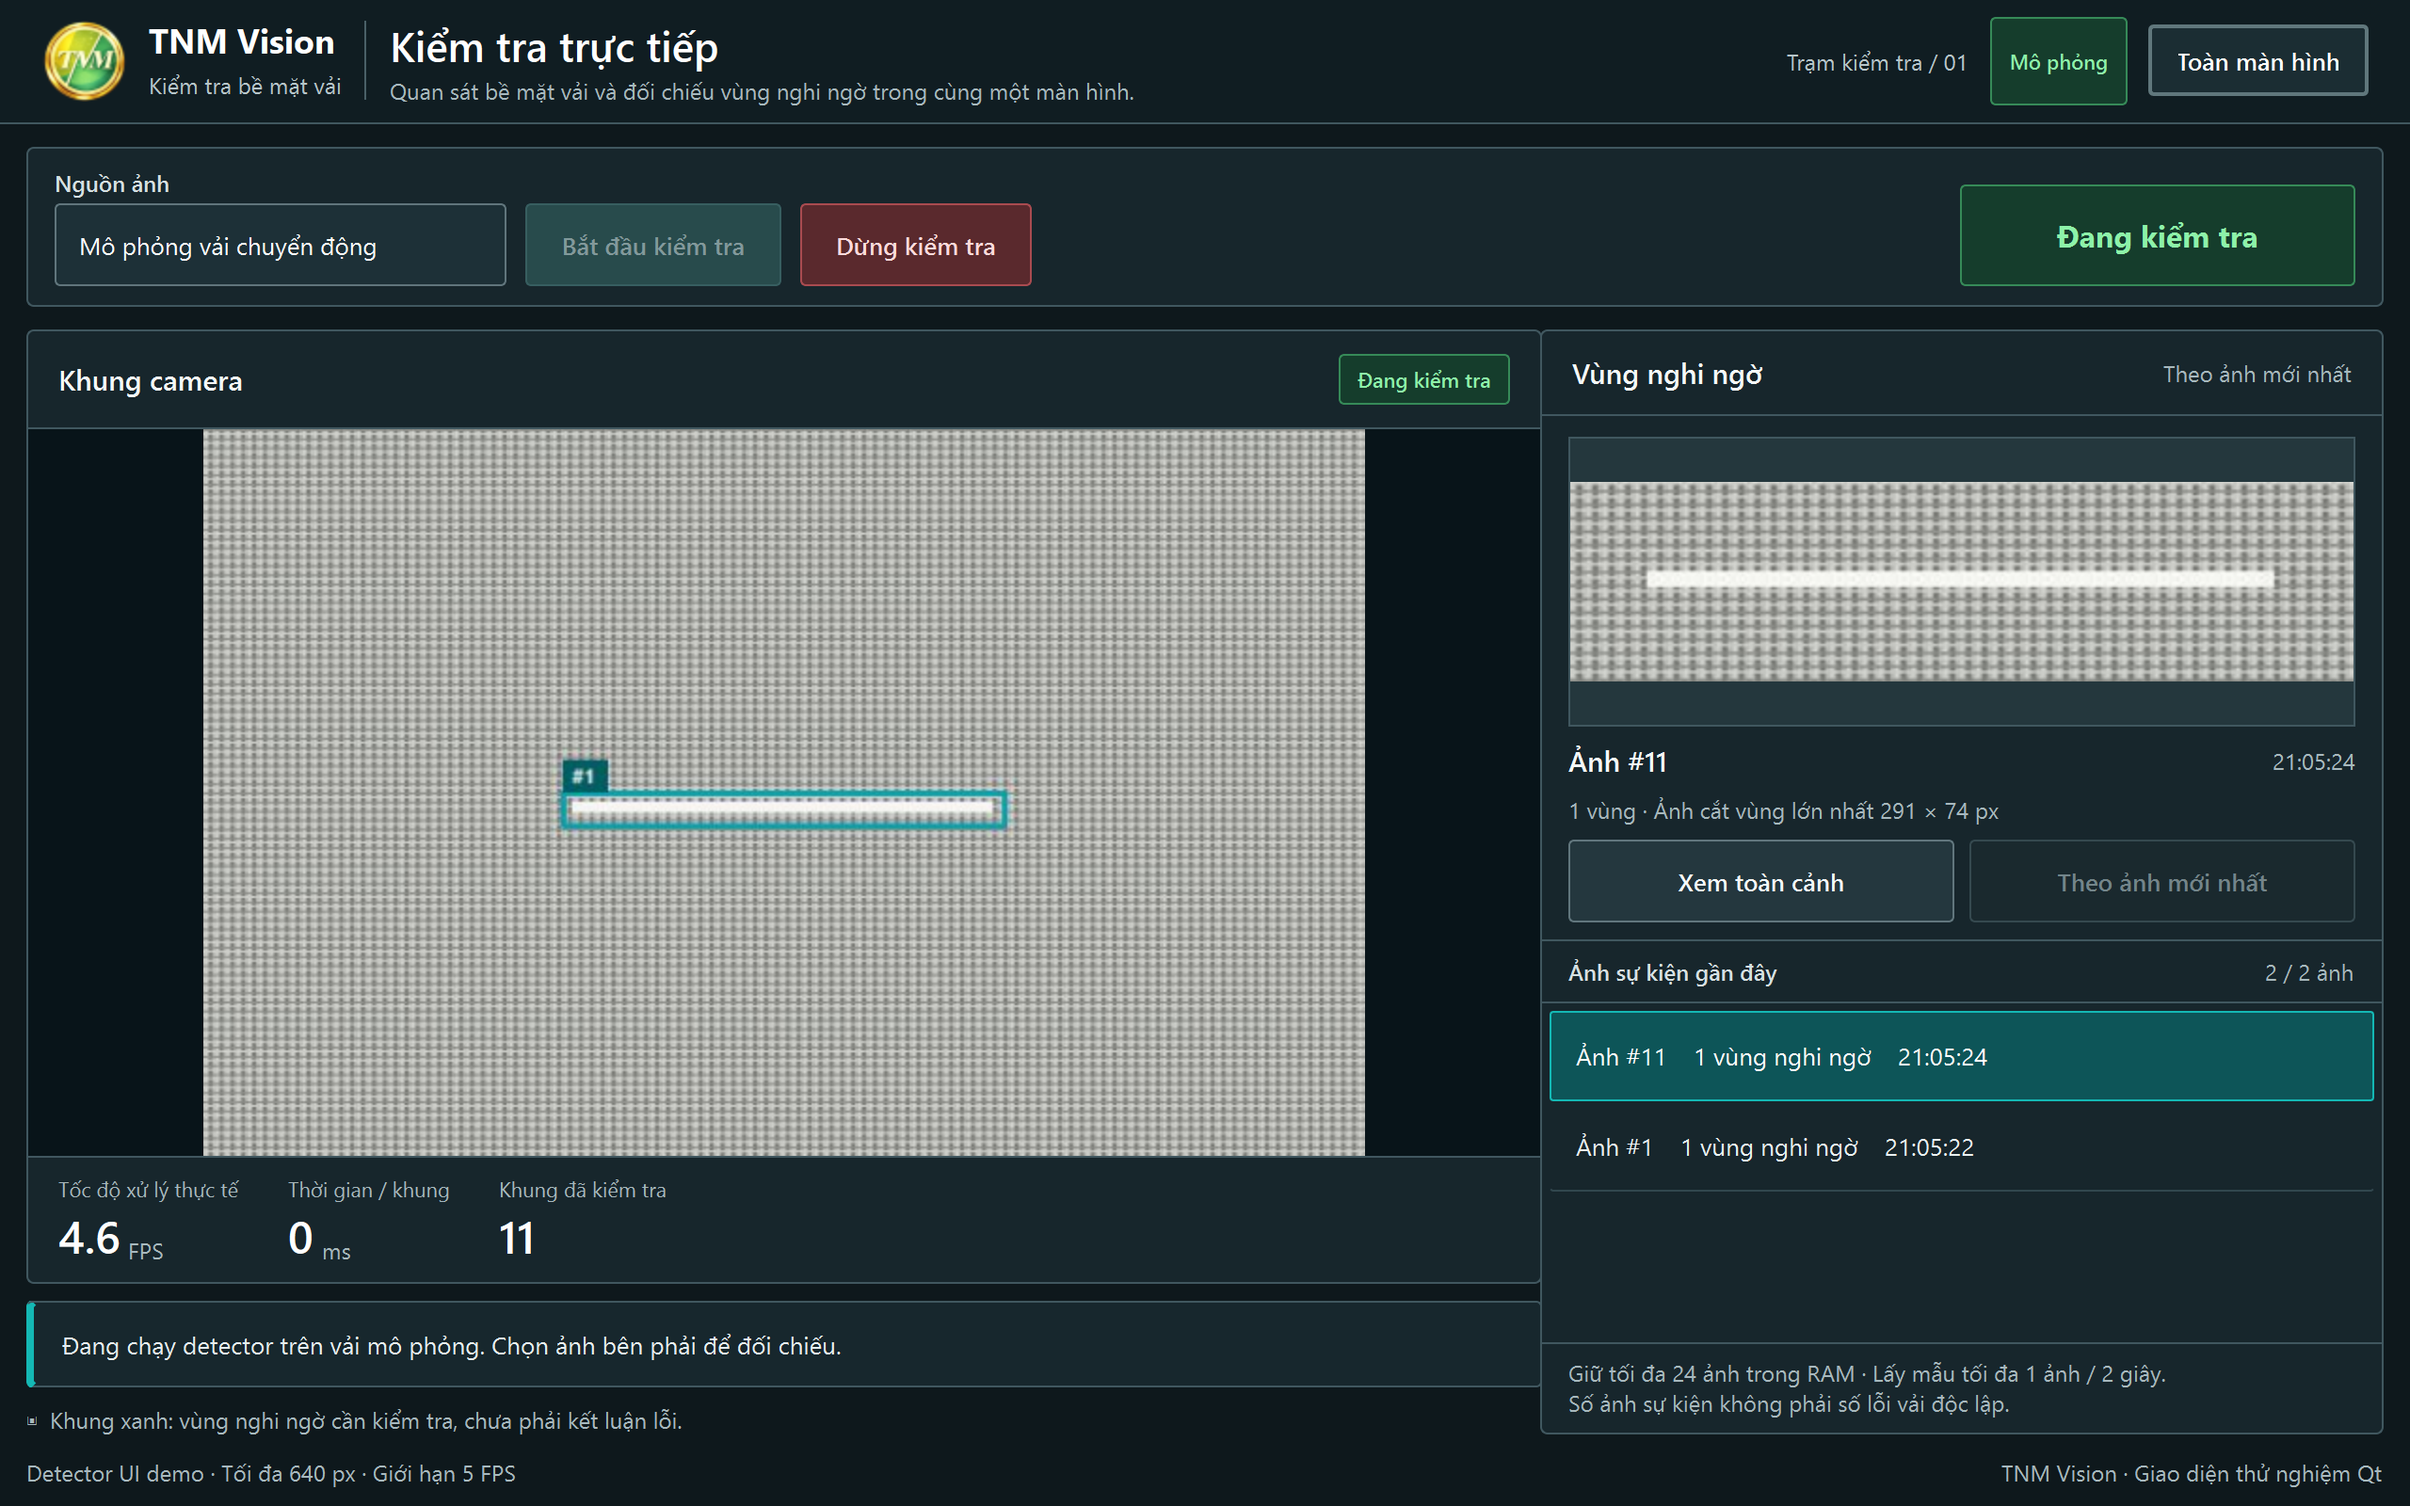
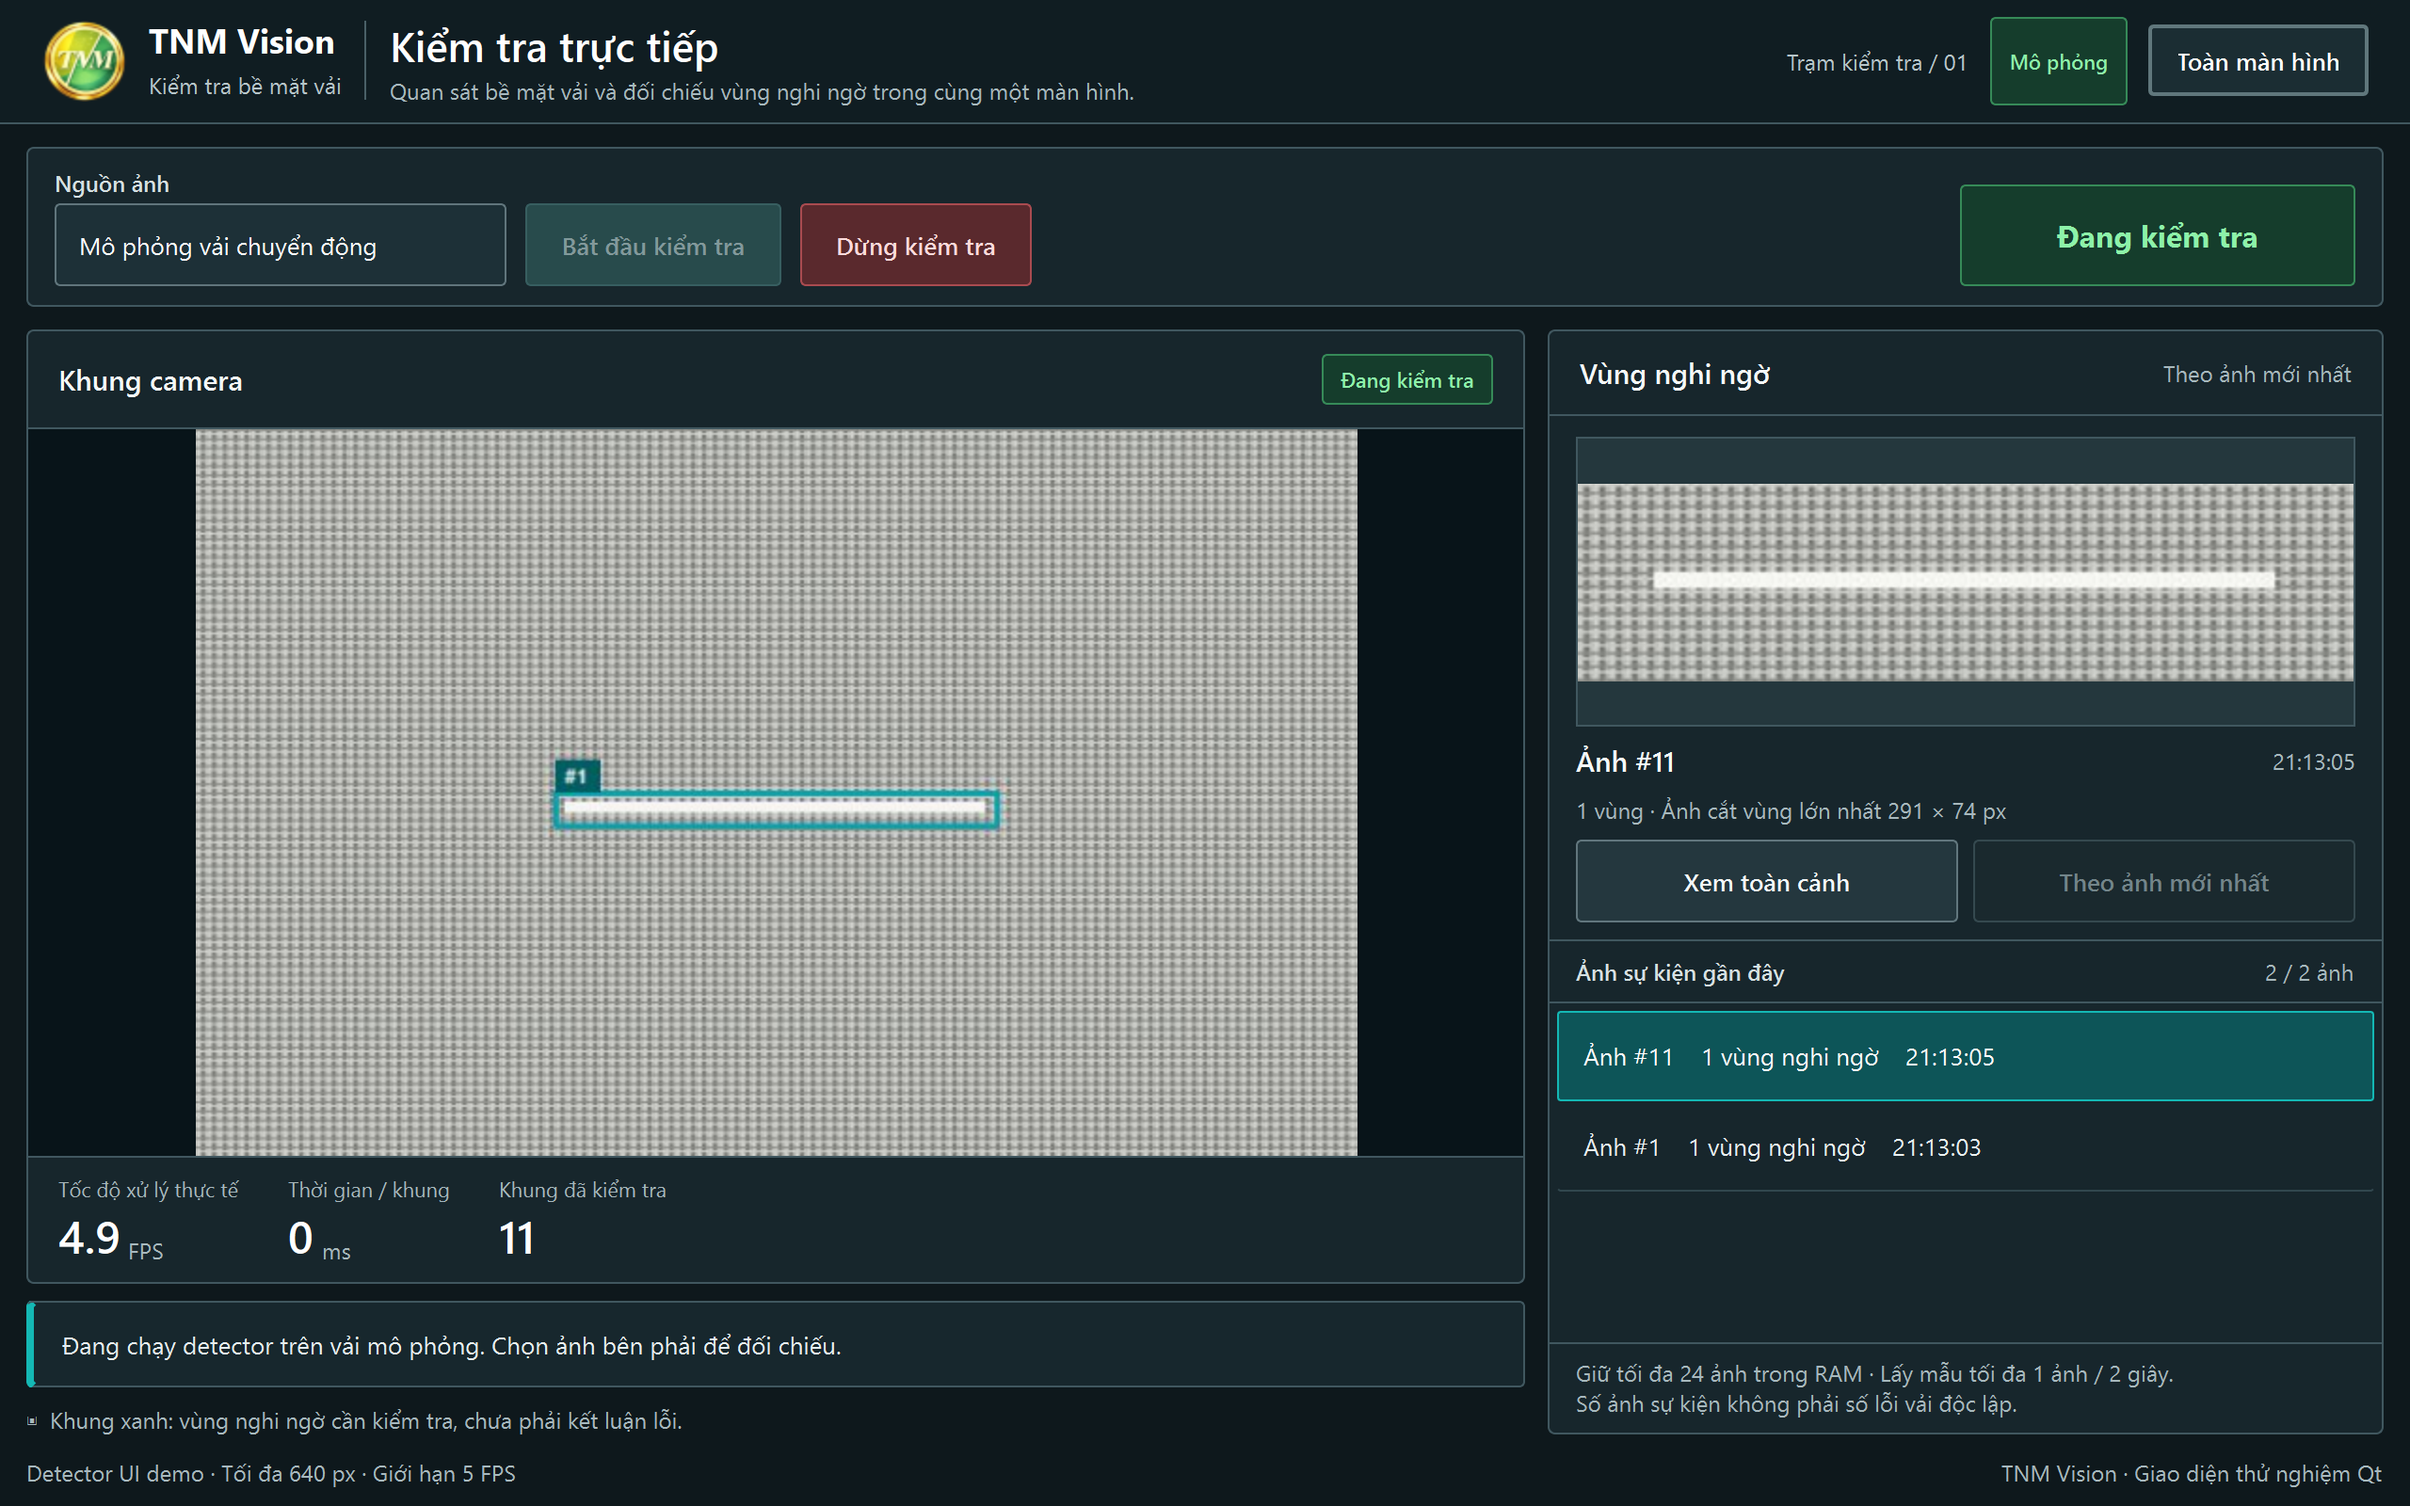
Separate inspection panel borders

diff --git a/src/ui_machine/app.py b/src/ui_machine/app.py
@@ -127,7 +127,7 @@ QScrollBar:vertical {{
 }}
 QScrollBar::handle:vertical {{ background: #526970; min-height: 28px; border-radius: 3px; }}
 QScrollBar::add-line:vertical, QScrollBar::sub-line:vertical {{ height: 0; }}
-QSplitter::handle {{ background: transparent; width: 10px; }}
+QSplitter::handle {{ background: {CANVAS}; }}
 """
 
 
@@ -273,6 +273,7 @@ class RuntimeWindow(QMainWindow):
 
         splitter = QSplitter(Qt.Orientation.Horizontal)
         splitter.setChildrenCollapsible(False)
+        splitter.setHandleWidth(12)
         splitter.addWidget(self._build_monitor())
         inspector = self._build_inspector()
         inspector.setMinimumWidth(340)
